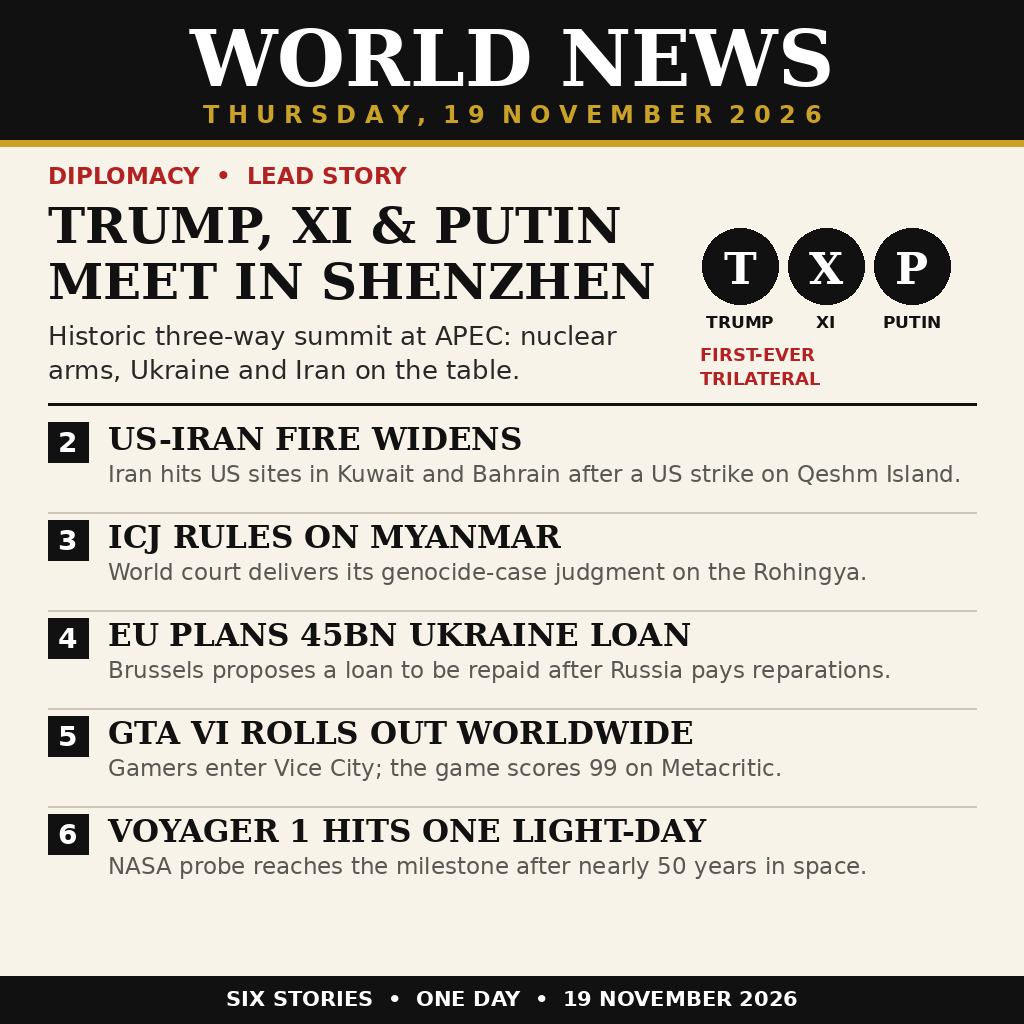
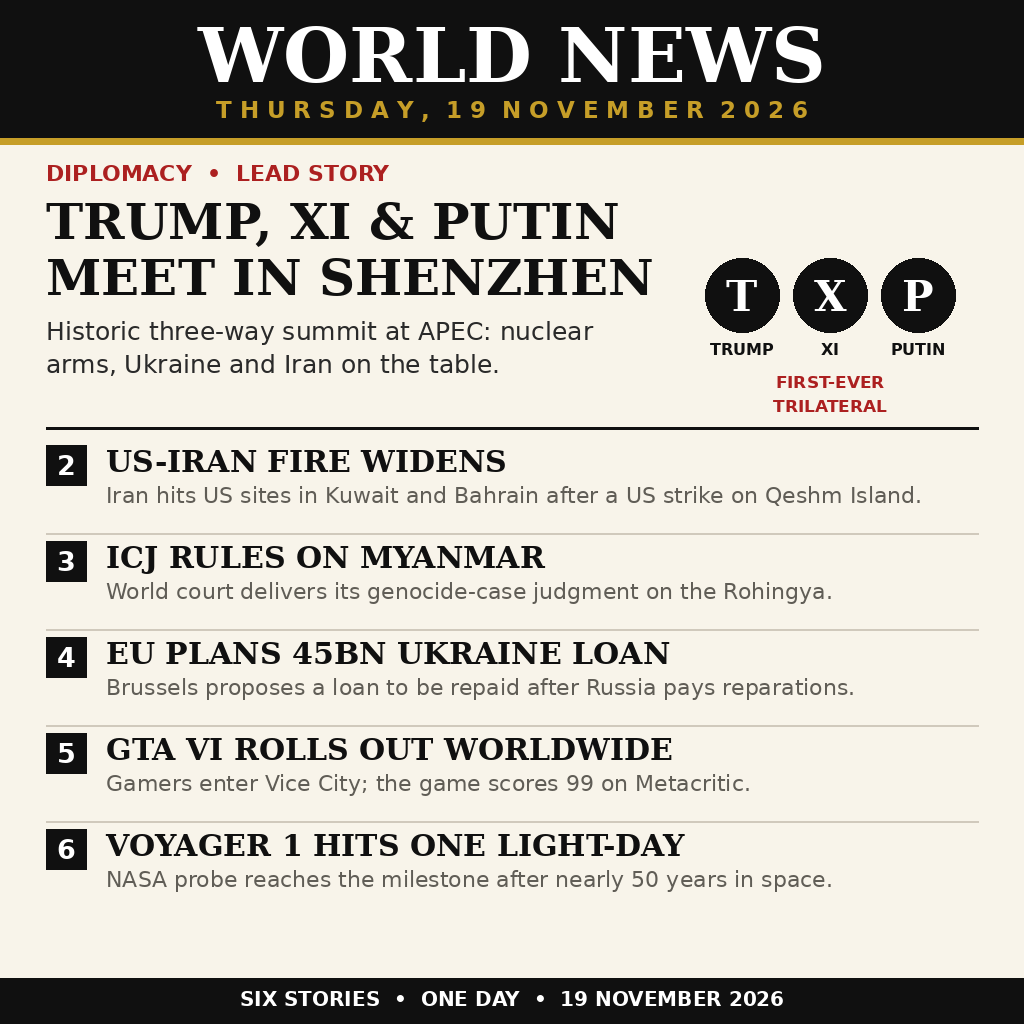
Rewrite entry code in-session (v2)

diff --git a/draw_image.py b/draw_image.py
@@ -1,91 +1,141 @@
 #!/usr/bin/env python3
-"""Draw the news-image-20261119 entry: a one-page newspaper infographic
-summing up world news of Thursday 19 November 2026.
+"""Render the news-image-20261119 front page.
 
-Output: entry.png, 1024x1024, PNG. Run: python3 draw_image.py
+Draws a one-page newspaper infographic for Thursday 19 November 2026
+with Pillow only: no network access, no external assets, no randomness.
+Running this file regenerates entry.png next to it; main.py then copies
+that file to the output directory.
 """
 import os
 
 from PIL import Image, ImageDraw, ImageFont
 
-W, H = 1024, 1024
-PAPER = (247, 243, 233)      # warm newsprint off-white
-INK = (17, 17, 17)           # near-black
-RED = (178, 34, 34)          # lead-story accent
-GOLD = (201, 162, 39)        # masthead rule
-GREY = (90, 88, 82)          # summary text
-LIGHT_LINE = (205, 199, 186) # hairlines
+PAGE_W, PAGE_H = 1024, 1024
+MARGIN = 46
+NEWS_BG = (248, 244, 234)
+DARK = (16, 16, 16)
+ACCENT = (172, 32, 32)
+BRASS = (198, 158, 40)
+MUTED = (96, 93, 86)
+RULE = (208, 201, 188)
 
-SERIF_B = "/usr/share/fonts/truetype/dejavu/DejaVuSerif-Bold.ttf"
-SANS_B = "/usr/share/fonts/truetype/dejavu/DejaVuSans-Bold.ttf"
-SANS = "/usr/share/fonts/truetype/dejavu/DejaVuSans.ttf"
+SERIF = "/usr/share/fonts/truetype/dejavu/DejaVuSerif-Bold.ttf"
+SANSB = "/usr/share/fonts/truetype/dejavu/DejaVuSans-Bold.ttf"
+SANSR = "/usr/share/fonts/truetype/dejavu/DejaVuSans.ttf"
 
 
-def font(path, size):
+def load(path, size):
+    """Load a TrueType face at the given point size."""
     return ImageFont.truetype(path, size)
 
 
-def wrap(draw, text, fnt, max_w):
-    """Greedy word wrap returning a list of lines that fit max_w."""
-    words, lines, cur = text.split(), [], ""
-    for word in words:
-        trial = (cur + " " + word).strip()
-        if draw.textlength(trial, font=fnt) <= max_w:
-            cur = trial
+def split_lines(canvas, text, face, width):
+    """Greedy word wrap: lines that each fit inside width."""
+    out, current = [], ""
+    for piece in text.split():
+        trial = f"{current} {piece}".strip()
+        if canvas.textlength(trial, font=face) <= width:
+            current = trial
         else:
-            if cur:
-                lines.append(cur)
-            cur = word
-    if cur:
-        lines.append(cur)
-    return lines
+            out.append(current)
+            current = piece
+    if current:
+        out.append(current)
+    return out
 
 
-def draw_center(draw, cx, y, text, fnt, fill):
-    draw.text((cx - draw.textlength(text, font=fnt) / 2, y), text,
-              font=fnt, fill=fill)
+def centred(canvas, cx, top, text, face, colour):
+    """Draw text centred on cx at the given top edge."""
+    canvas.text((cx - canvas.textlength(text, font=face) / 2, top),
+                text, font=face, fill=colour)
 
 
-def main():
-    img = Image.new("RGB", (W, H), PAPER)
-    d = ImageDraw.Draw(img)
+def banner(canvas):
+    """Black masthead with the paper name and the day it sums up."""
+    canvas.rectangle([0, 0, PAGE_W, 138], fill=DARK)
+    centred(canvas, PAGE_W // 2, 10, "WORLD NEWS", load(SERIF, 76),
+            (255, 255, 255))
+    centred(canvas, PAGE_W // 2, 96,
+            "T H U R S D A Y ,  1 9  N O V E M B E R  2 0 2 6",
+            load(SANSB, 23), BRASS)
+    canvas.rectangle([0, 138, PAGE_W, 144], fill=BRASS)
 
-    # ---- Masthead -------------------------------------------------------
-    d.rectangle([0, 0, W, 140], fill=INK)
-    draw_center(d, W // 2, 12, "WORLD NEWS", font(SERIF_B, 78), (255, 255, 255))
-    draw_center(d, W // 2, 100, "T H U R S D A Y ,  1 9  N O V E M B E R  2 0 2 6",
-                font(SANS_B, 24), GOLD)
-    d.rectangle([0, 140, W, 146], fill=GOLD)
 
-    # ---- Lead story: Trump-Xi-Putin trilateral --------------------------
-    y = 162
-    d.text((48, y), "DIPLOMACY  •  LEAD STORY", font=font(SANS_B, 23), fill=RED)
-    y += 34
-    d.text((48, y), "TRUMP, XI & PUTIN", font=font(SERIF_B, 50), fill=INK)
-    y += 56
-    d.text((48, y), "MEET IN SHENZHEN", font=font(SERIF_B, 50), fill=INK)
-    y += 68
-    lead_sum = ("Historic three-way summit at APEC: nuclear arms, "
-                "Ukraine and Iran on the table.")
-    for line in wrap(d, lead_sum, font(SANS, 26), 600):
-        d.text((48, y), line, font=font(SANS, 26), fill=(40, 40, 40))
-        y += 34
-    # Three leader medallions beside the summary
-    bx, by = 700, 228
-    for i, (initial, name) in enumerate(
-            [("T", "TRUMP"), ("X", "XI"), ("P", "PUTIN")]):
-        cx = bx + i * 86 + 40
-        d.ellipse([cx - 38, by, cx + 38, by + 76], fill=INK)
-        draw_center(d, cx, by + 14, initial, font(SERIF_B, 44),
-                    (255, 255, 255))
-        draw_center(d, cx, by + 84, name, font(SANS_B, 17), INK)
-    d.text((700, by + 116), "FIRST-EVER", font=font(SANS_B, 18), fill=RED)
-    d.text((700, by + 140), "TRILATERAL", font=font(SANS_B, 18), fill=RED)
-    y = max(y + 16, by + 172)
-    d.line([48, y, W - 48, y], fill=INK, width=3)
-    y += 16
+def lead_block(canvas, top):
+    """The lead story: the Shenzhen trilateral, with leader medallions."""
+    canvas.text((MARGIN, top), "DIPLOMACY  •  LEAD STORY",
+                font=load(SANSB, 22), fill=ACCENT)
+    head_top = top + 32
+    canvas.text((MARGIN, head_top), "TRUMP, XI & PUTIN",
+                font=load(SERIF, 50), fill=DARK)
+    canvas.text((MARGIN, head_top + 56), "MEET IN SHENZHEN",
+                font=load(SERIF, 50), fill=DARK)
+    body = ("Historic three-way summit at APEC: nuclear arms, "
+            "Ukraine and Iran on the table.")
+    line_top = head_top + 124
+    for line in split_lines(canvas, body, load(SANSR, 25), 600):
+        canvas.text((MARGIN, line_top), line, font=load(SANSR, 25),
+                    fill=(42, 42, 42))
+        line_top += 33
+    # Three medallions, one per leader, at the right of the headline.
+    leaders = [("T", "TRUMP"), ("X", "XI"), ("P", "PUTIN")]
+    disc_top = head_top + 66
+    for i, (initial, name) in enumerate(leaders):
+        cx = 742 + i * 88
+        canvas.ellipse([cx - 37, disc_top, cx + 37, disc_top + 74],
+                       fill=DARK)
+        centred(canvas, cx, disc_top + 13, initial, load(SERIF, 42),
+                (255, 255, 255))
+        centred(canvas, cx, disc_top + 82, name, load(SANSB, 16), DARK)
+    centred(canvas, 830, disc_top + 114, "FIRST-EVER",
+            load(SANSB, 17), ACCENT)
+    centred(canvas, 830, disc_top + 138, "TRILATERAL",
+            load(SANSB, 17), ACCENT)
+    rule_top = max(line_top + 14, disc_top + 170)
+    canvas.line([MARGIN, rule_top, PAGE_W - MARGIN, rule_top],
+                fill=DARK, width=3)
+    return rule_top + 15
 
-    # ---- The other five stories ------------------------------------------
+
+def story_block(canvas, top, number, title, summary):
+    """One numbered story: badge, headline, one-line summary, hairline."""
+    canvas.rectangle([MARGIN, top + 2, MARGIN + 40, top + 42], fill=DARK)
+    centred(canvas, MARGIN + 20, top + 6, number, load(SANSB, 27),
+            (255, 255, 255))
+    text_x = MARGIN + 60
+    head_lines = split_lines(canvas, title, load(SERIF, 30),
+                             PAGE_W - text_x - MARGIN)
+    line_top = top
+    for line in head_lines[:2]:
+        canvas.text((text_x, line_top), line, font=load(SERIF, 30),
+                    fill=DARK)
+        line_top += 37
+    sum_top = line_top + 2
+    for line in split_lines(canvas, summary, load(SANSR, 22),
+                            PAGE_W - text_x - MARGIN):
+        canvas.text((text_x, sum_top), line, font=load(SANSR, 22),
+                    fill=MUTED)
+        sum_top += 27
+    next_top = max(sum_top + 10, top + 96)
+    if number != "6":
+        canvas.line([MARGIN, next_top - 6, PAGE_W - MARGIN, next_top - 6],
+                    fill=RULE, width=2)
+    return next_top
+
+
+def footer(canvas):
+    """Black footer strip closing the page."""
+    canvas.rectangle([0, PAGE_H - 46, PAGE_W, PAGE_H], fill=DARK)
+    centred(canvas, PAGE_W // 2, PAGE_H - 37,
+            "SIX STORIES  •  ONE DAY  •  19 NOVEMBER 2026",
+            load(SANSB, 20), (255, 255, 255))
+
+
+def render():
+    page = Image.new("RGB", (PAGE_W, PAGE_H), NEWS_BG)
+    canvas = ImageDraw.Draw(page)
+    banner(canvas)
+    top = lead_block(canvas, 160)
     stories = [
         ("2", "US-IRAN FIRE WIDENS",
          "Iran hits US sites in Kuwait and Bahrain after a US strike on Qeshm Island."),
@@ -98,34 +148,14 @@ def main():
         ("6", "VOYAGER 1 HITS ONE LIGHT-DAY",
          "NASA probe reaches the milestone after nearly 50 years in space."),
     ]
-    for num, head, summ in stories:
-        # number badge
-        d.rectangle([48, y + 2, 88, y + 42], fill=INK)
-        draw_center(d, 68, y + 6, num, font(SANS_B, 28), (255, 255, 255))
-        # headline, wrapped to two lines max
-        hx = 108
-        lines = wrap(d, head, font(SERIF_B, 31), W - hx - 48)
-        hy = y
-        for line in lines[:2]:
-            d.text((hx, hy), line, font=font(SERIF_B, 31), fill=INK)
-            hy += 38
-        sy = y + 38 * len(lines[:2]) + 2
-        for line in wrap(d, summ, font(SANS, 23), W - hx - 48):
-            d.text((hx, sy), line, font=font(SANS, 23), fill=GREY)
-            sy += 28
-        y = max(sy + 10, y + 98)
-        if num != "6":
-            d.line([48, y - 6, W - 48, y - 6], fill=LIGHT_LINE, width=2)
-
-    # ---- Footer ------------------------------------------------------------
-    d.rectangle([0, H - 48, W, H], fill=INK)
-    draw_center(d, W // 2, H - 38, "SIX STORIES  •  ONE DAY  •  19 NOVEMBER 2026",
-                font(SANS_B, 21), (255, 255, 255))
-
-    out = os.path.join(os.path.dirname(os.path.abspath(__file__)), "entry.png")
-    img.save(out, "PNG")
-    print("wrote", out, img.size, os.path.getsize(out), "bytes")
+    for number, title, summary in stories:
+        top = story_block(canvas, top, number, title, summary)
+    footer(canvas)
+    out = os.path.join(os.path.dirname(os.path.abspath(__file__)),
+                       "entry.png")
+    page.save(out, "PNG")
+    print("wrote", out, page.size, os.path.getsize(out), "bytes")
 
 
 if __name__ == "__main__":
-    main()
+    render()

diff --git a/main.py b/main.py
@@ -1,19 +1,18 @@
 #!/usr/bin/env python3
-"""news-image-20261119 entrypoint: copy the entry image to the output dir.
+"""news-image-20261119 entry point.
 
-The image is drawn by draw_image.py and stored in this repository as
-entry.png; this program just copies it to /output/entry.png (or
-$MAKEFUN_OUTPUT_DIR/entry.png). Deterministic, no network.
+Copies the pre-drawn front page (entry.png, made by draw_image.py) into
+the output directory the run is given. Nothing is fetched and nothing is
+generated at run time, so two runs always write identical bytes.
 """
 import os
 import shutil
+from pathlib import Path
 
-HERE = os.path.dirname(os.path.abspath(__file__))
-OUT_DIR = os.environ.get("MAKEFUN_OUTPUT_DIR", "/output")
+SOURCE = Path(__file__).resolve().parent / "entry.png"
+TARGET_DIR = Path(os.environ.get("MAKEFUN_OUTPUT_DIR", "/output"))
 
-os.makedirs(OUT_DIR, exist_ok=True)
-shutil.copyfile(
-    os.path.join(HERE, "entry.png"),
-    os.path.join(OUT_DIR, "entry.png"),
-)
-print("wrote", os.path.join(OUT_DIR, "entry.png"))
+TARGET_DIR.mkdir(parents=True, exist_ok=True)
+TARGET = TARGET_DIR / "entry.png"
+shutil.copyfile(SOURCE, TARGET)
+print(f"wrote {TARGET}")

diff --git a/README.md b/README.md
@@ -4,25 +4,32 @@
 [![rank](https://make.fun/badge/news-image-20261119/davidwara/news-image-20261119/rank.svg)](https://make.fun/c/news-image-20261119)
 [![reward](https://make.fun/badge/news-image-20261119/davidwara/news-image-20261119/reward.svg)](https://make.fun/c/news-image-20261119)
 
-A one-page newspaper infographic summing up world news of
-**Thursday 19 November 2026** in a single 1024×1024 image:
+One page of newspaper, drawn as a single 1024×1024 picture, that sums up
+the world news of **Thursday 19 November 2026**:
 
-1. **Trump, Xi & Putin meet in Shenzhen** — Historic three-way summit at APEC: nuclear arms, Ukraine and Iran on the table
-2. **US–Iran fire widens** — Iran hits US sites in Kuwait and Bahrain after a US strike on Qeshm Island
-3. **ICJ rules on Myanmar** — World court delivers its genocide-case judgment on the Rohingya
-4. **EU plans €45bn Ukraine loan** — Brussels proposes a loan to be repaid after Russia pays reparations
-5. **GTA VI rolls out worldwide** — Gamers enter Vice City; the game scores 99 on Metacritic
-6. **Voyager 1 hits one light-day** — NASA probe reaches the milestone after nearly 50 years in space
+1. **Trump, Xi & Putin meet in Shenzhen** — the first-ever trilateral at
+   APEC, with nuclear arms, Ukraine and Iran on the table
+2. **US–Iran fire widens** — Iran hits US sites in Kuwait and Bahrain
+   after a US strike on Qeshm Island
+3. **ICJ rules on Myanmar** — the world court delivers its genocide-case
+   judgment on the Rohingya
+4. **EU plans €45bn Ukraine loan** — Brussels proposes a loan to be
+   repaid after Russia pays reparations
+5. **GTA VI rolls out worldwide** — gamers enter Vice City; the game
+   scores 99 on Metacritic
+6. **Voyager 1 hits one light-day** — NASA's probe reaches the milestone
+   after nearly 50 years in space
 
-## How it works
+## Running it
 
-`draw_image.py` draws the infographic with Pillow (no network, no external
-assets) and writes `entry.png`. `main.py` copies `entry.png` to
-`$MAKEFUN_OUTPUT_DIR/entry.png` (default `/output`).
+`draw_image.py` renders the front page with Pillow — no network, no
+outside assets — and saves it as `entry.png`. `main.py` copies that file
+to `$MAKEFUN_OUTPUT_DIR/entry.png` (or `/output` by default).
 
 ```sh
-python3 draw_image.py   # regenerate entry.png
+python3 draw_image.py                 # redraw entry.png
 MAKEFUN_OUTPUT_DIR=out python3 main.py
 ```
 
-Entry for the [news-image-20261119 competition](https://make.fun/c/news-image-20261119) on make.fun — see the [bounty page](https://make.fun/bounty/news-image-20261119).
+An entry for the [news-image-20261119 competition](https://make.fun/c/news-image-20261119)
+on make.fun — see the [bounty page](https://make.fun/bounty/news-image-20261119).
